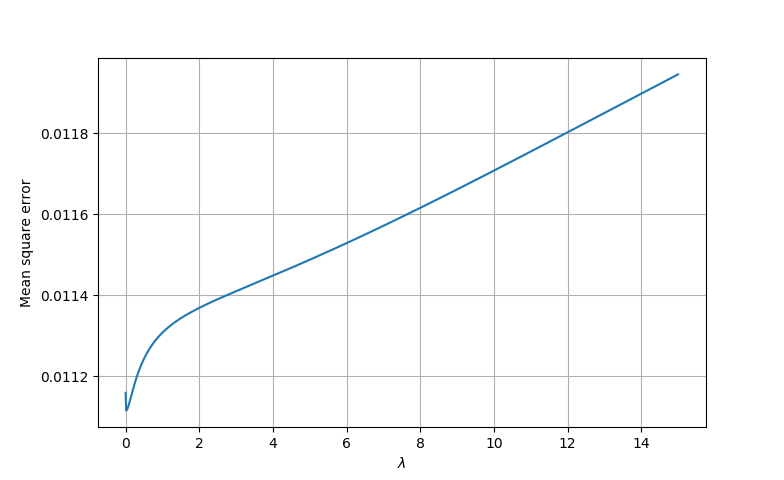
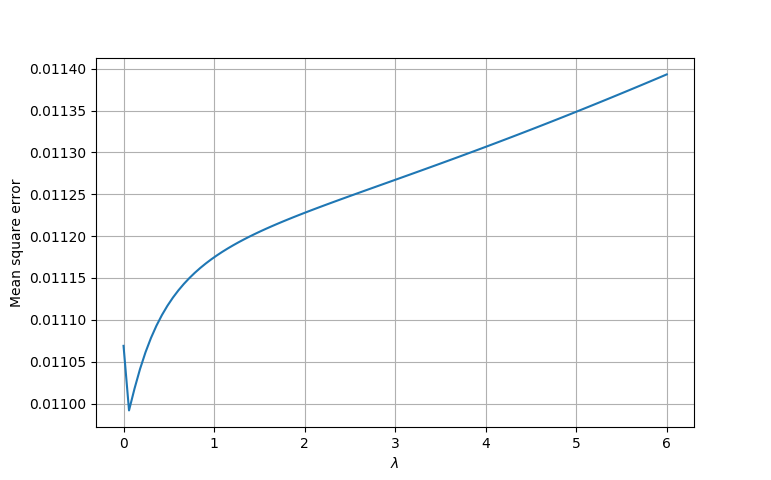
plotting MSE with respect to lambda

diff --git a/part_b/ridge.py b/part_b/ridge.py
@@ -32,7 +32,6 @@ class Ridge():
 
         I = np.identity(X.shape[1])
         self.beta = np.linalg.pinv(X.T.dot(X) + self.lmbda * I).dot(X.T).dot(y)
-
         if ret:
             return self.beta
 
@@ -60,6 +59,7 @@ class Ridge():
 
 
 if __name__ == '__main__':
+    np.random.seed(79162)
     # Making meshgrid of datapoints and compute Franke's function
     N = 1000
     x = np.sort(np.random.uniform(0, 1, N))
@@ -87,20 +87,26 @@ if __name__ == '__main__':
     # print("MSE: %.5f" %MSE(z, z_reg))
     # print("R2_Score: %.5f" %R2_Score(z, z_reg))
 
+    sys.path.append('../part_a')
+    from OLS import OLS
 
-    from sklearn.linear_model import Ridge
-    lmbdas = np.linspace(1e-4,1e8,1000)
-    MSEs = np.zeros(1000)
-    for i in range(1000):
+    lmbdas = np.linspace(0,15,100)
+    MSEs = np.zeros(100)
+    MSEs2 = np.zeros(100)
+    for i in range(100):
         print(i)
-        model = Ridge(alpha = lmbdas[i], fit_intercept=False).fit(X, np.ravel(z_noise))
-        z_tilde = (model.predict(X_r)).reshape((N,N))
-        MSEs[i] = MSE(z, z_tilde)
-        #MSEs[i] = Bootstrap(x_mesh_, y_mesh_, z, k=10, lmbda=lmbdas[i])[0]
+        model2 = OLS(); model2.fit(X, z_noise)
+        model = Ridge(lmbda = lmbdas[i]); model.fit(X, z_noise)
+        z_tilde1 = (model.predict(X_r)).reshape((N,N))
+        z_tilde2 = (model2.predict(X_r)).reshape((N,N))
+        MSEs[i] = MSE(z, z_tilde1)
+        MSEs2[i] = MSE(z, z_tilde2)
 
-    plt.semilogx(lmbdas, MSEs)
+    plt.plot(lmbdas, MSEs, label='Ridge')
+    plt.plot(lmbdas, MSEs2, label='OLS')
     plt.grid()
     plt.xlabel(r'$\lambda$')
+    plt.legend()
     plt.ylabel('Mean square error')
     plt.show()
 
